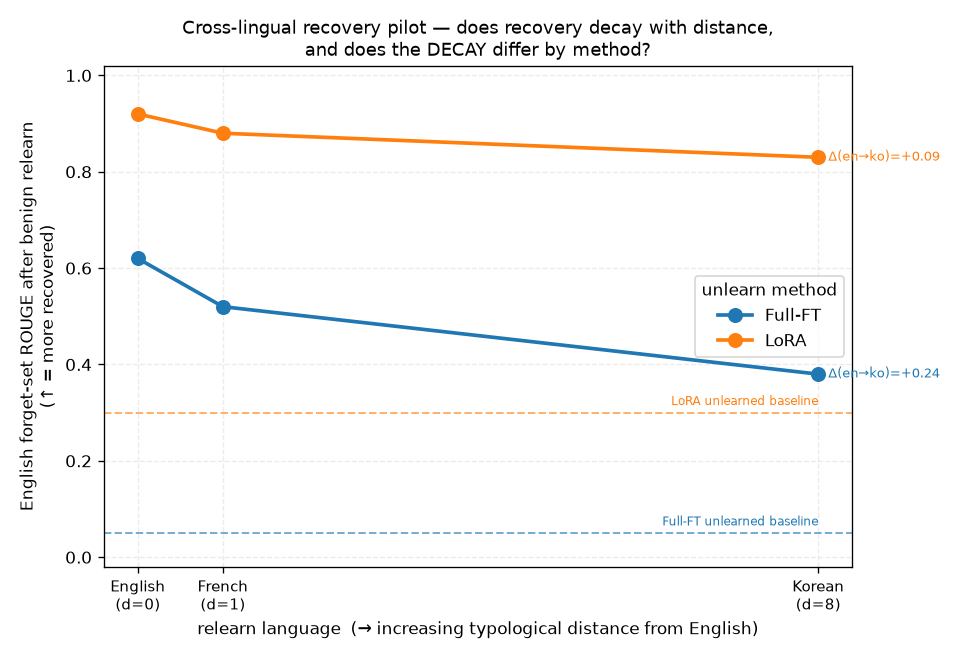
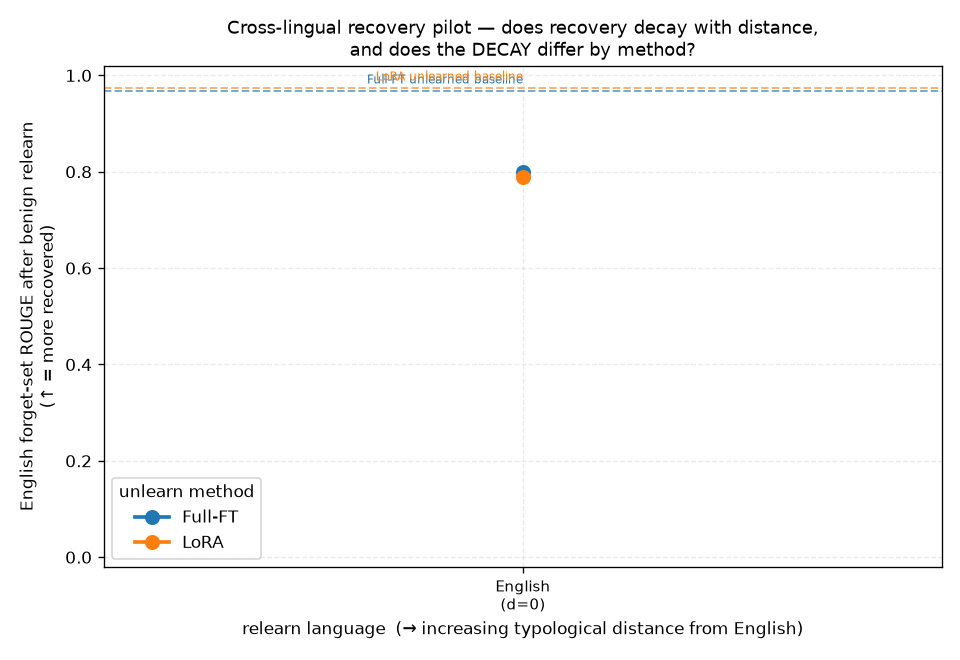
fix bug

diff --git a/scripts/recovery/relearn.py b/scripts/recovery/relearn.py
@@ -75,10 +75,15 @@ def main():
     ap.add_argument("--relearn-lang", default="en",
                     help="LANGUAGE of the relearn data (cross-lingual recovery study). "
                          "en = locuslab/TOFU; others = multilingual TOFU (forget/retain only).")
+    ap.add_argument("--forget-level", default=None,
+                    help="override config forget_level (e.g. forget01 for the "
+                         "cross-lingual pilot — the multilingual data is forget01 only).")
     ap.add_argument("--local_rank", type=int, default=-1)  # deepspeed launcher
     args = ap.parse_args()
 
     cfg = load_config()
+    if args.forget_level:
+        cfg = {**cfg, "tofu": {**cfg["tofu"], "forget_level": args.forget_level}}
     set_seed(cfg["seed"])
     data = load_relearn_data(args.relearn_data, cfg, args.relearn_lang)
     logger.info("Relearn regime=%s lang=%s (%d records)",

diff --git a/scripts/recovery/relearn_measure.py b/scripts/recovery/relearn_measure.py
@@ -67,10 +67,13 @@ def main():
                          "world_facts | lora_ablation). Each STRATEGY writes "
                          "its OWN <group>/<checkpoint>.json, so parallel/repeat runs "
                          "and rsync never overwrite each other.")
+    ap.add_argument("--forget-level", default=None,
+                    help="override config forget_level (e.g. forget01 for the pilot)")
     args = ap.parse_args()
 
     cfg = load_config()
-    forget = load_qa(cfg["tofu"]["forget_level"], cfg["tofu"]["cache_dir"])
+    fl = args.forget_level or cfg["tofu"]["forget_level"]
+    forget = load_qa(fl, cfg["tofu"]["cache_dir"])
     max_new = cfg["evaluation"]["max_new_tokens"]
 
     out_dir = ensure_dir(f"results/relearn/{args.group}")

diff --git a/lora_locality/plot.py b/lora_locality/plot.py
@@ -54,7 +54,8 @@ def main():
             ax.plot(xs, ys, marker="o", ms=5, lw=2, color=cmap(0.1 + 0.8 * i / max(n - 1, 1)),
                     label=f"{d['location']} (r{d['rank']}, {d['params'] / 1e6:.0f}M)")
         ax.set_title(title, fontsize=11)
-        ax.set_xlabel("Relearn epochs on the forget set")
+        ax.set_xlabel(f"Relearn epochs on the {args.regime} set"
+                      + (" (benign)" if args.regime == "retain" else ""))
         ax.grid(True, alpha=0.25, ls="--")
         ax.set_axisbelow(True)
     axes[0].set_ylabel("recovery (↑ = knowledge returned)")